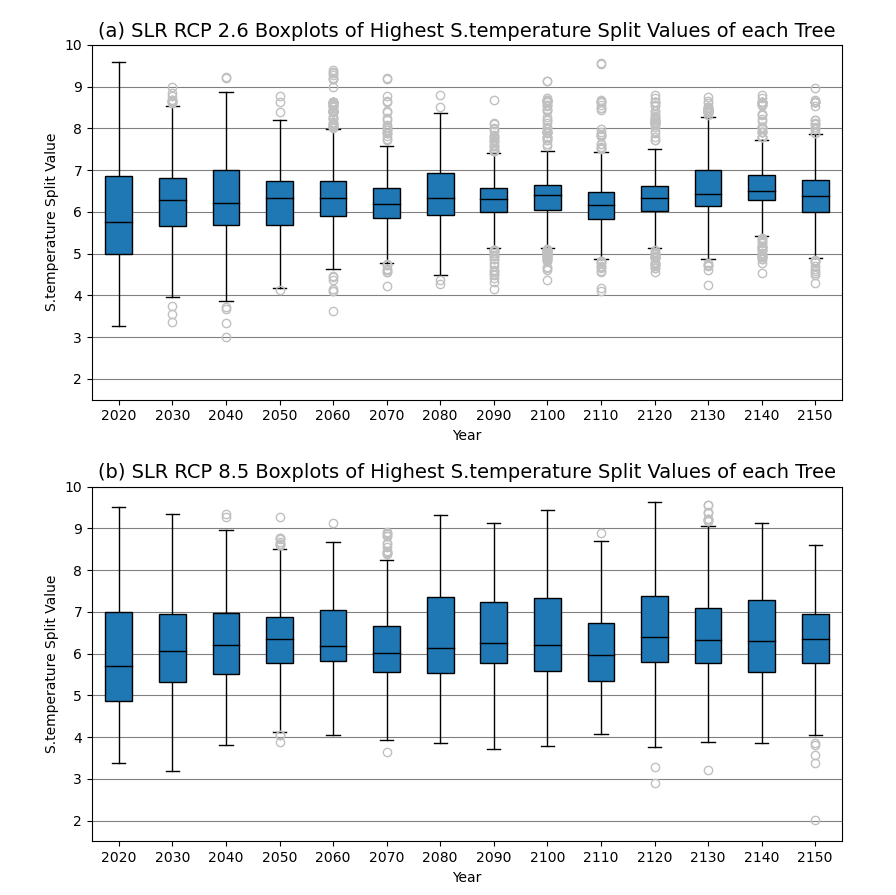
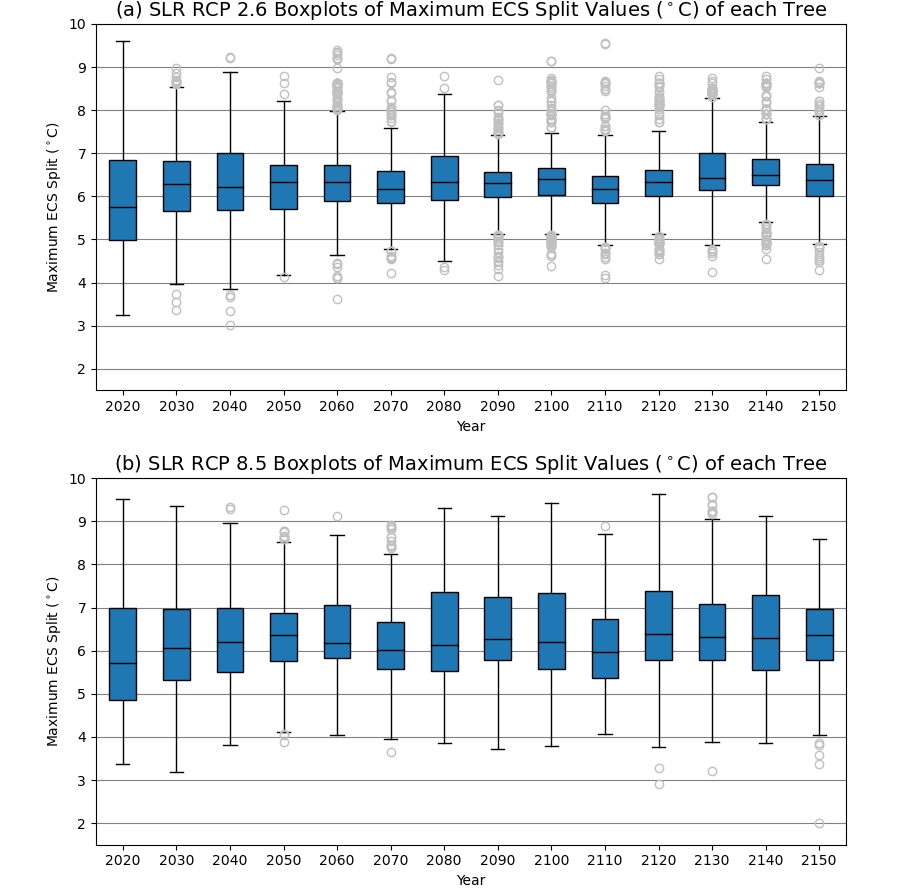
updated plots

Changed region(s): [[0.0312, 0.0, 0.9375, 0.8788], [0.0625, 0.9091, 0.9375, 1.0]]

diff --git a/python_code/sklearn_slr_classification.py b/python_code/sklearn_slr_classification.py
@@ -7,6 +7,7 @@ import pylab
 import joblib
 import os
 from collections import Counter
+import matplotlib.ticker as mticker
 
 
 MAX_DEPTH = 14
@@ -458,7 +459,7 @@ def feature_color_dict(features_list):
 
 
 def slr_stacked_importances_plot(param_sample_df, rcp26_forest_list, rcp85_forest_list, years,
-                                 importance_threshold = .05):
+                                 importance_threshold=.05):
     """
     Create a stacked histogram of the feature importances over time for each RCP
     :param param_sample_df: dataframe of the input feature values
@@ -518,7 +519,9 @@ def slr_stacked_importances_plot(param_sample_df, rcp26_forest_list, rcp85_fores
     features_on_plot = []
     for importances_info in importances_info_list:
         for feature in importances_info:
-            if feature not in features_on_plot:
+            if feature == "Other":
+                pass
+            elif feature not in features_on_plot:
                 features_on_plot.append(feature)
     color_dict = feature_color_dict(features_on_plot)
 
@@ -532,10 +535,10 @@ def slr_stacked_importances_plot(param_sample_df, rcp26_forest_list, rcp85_fores
         x = np.arange(len(years))
         bottom = None
         for feature in importances_info:
-            color = color_dict[feature]
             if feature == "Other":
                 pass
             else:
+                color = color_dict[feature]
                 if bottom is None:
                     axs[i].bar(x, importances_info[feature], label=feature, color=color)
                     bottom = np.array(importances_info[feature])
@@ -543,8 +546,12 @@ def slr_stacked_importances_plot(param_sample_df, rcp26_forest_list, rcp85_fores
                     axs[i].bar(x, importances_info[feature], bottom=bottom, label=feature, color=color)
                     bottom += np.array(importances_info[feature])
         percent_label = "Other (< " + str(importance_threshold*100) + " %)"
-        axs[i].bar(x, importances_info["Other"], bottom=bottom, label=percent_label)
-        axs[i].set_ylabel("Relative Importances")
+        axs[i].bar(x, importances_info["Other"], bottom=bottom, label=percent_label, color='white',
+                   hatch='//')
+        axs[i].set_ylabel("Relative Importances", fontsize=14)
+        ticks_loc = axs[i].get_yticks().tolist()
+        axs[i].yaxis.set_major_locator(mticker.FixedLocator(ticks_loc))
+        axs[i].set_yticklabels(["{:.1f}".format(x) for x in ticks_loc], fontsize=12)
         yrs_10=[]
         for yr in years:
             if int(yr) % 10 == 0:
@@ -552,20 +559,22 @@ def slr_stacked_importances_plot(param_sample_df, rcp26_forest_list, rcp85_fores
             else:
                 yrs_10.append("")
         axs[i].set_xticks(x)
-        axs[i].set_xticklabels(yrs_10)
-        axs[i].set_xlabel('Year')
+        axs[i].set_xticklabels(yrs_10, fontsize=12)
+        axs[i].set_xlabel('Year', fontsize=14)
         if i == 0:
             title_label = "(a)"
         else:
             title_label = "(b)"
         title = title_label + " SLR " + name[i] + " Feature Importances"
-        axs[i].set_title(title, fontsize=14)
+        axs[i].set_title(title, fontsize=18)
         legend_details = axs[i].get_legend_handles_labels()
         handles += legend_details[0]
         labels += legend_details[1]
-        print(name[i], labels, sep="\t")
     by_label = dict(zip(labels, handles))
+    other = by_label.pop(percent_label)
+    by_label[percent_label] = other
     plt.figlegend(by_label.values(), by_label.keys(), bbox_to_anchor=(.98, .62))
+    plt.subplots_adjust(left=.105, right=.825, top=.96, bottom=.065, hspace=.258)
     plt.show()
 
 
@@ -805,15 +814,16 @@ def all_Stemp_max_split_boxplots(year_list, show_outliers=True):
         axs[i].boxplot(all_split_lists[i], showfliers=show_outliers, patch_artist=True, medianprops=dict(color="black"),
                    flierprops=dict(markeredgecolor='silver'), labels=[str(yr) for yr in year_list])
         if i == 0:
-            title = "(a) SLR RCP 2.6 Boxplots of Highest S.temperature Split Values of each Tree"
+            title = "(a) SLR RCP 2.6 Boxplots of Maximum ECS Split Values ($^\circ$C) of each Tree"
         elif i == 1:
-            title = "(b) SLR RCP 8.5 Boxplots of Highest S.temperature Split Values of each Tree"
-        axs[i].set_ylabel("S.temperature Split Value")
+            title = "(b) SLR RCP 8.5 Boxplots of Maximum ECS Split Values ($^\circ$C) of each Tree"
+        axs[i].set_ylabel("Maximum ECS Split ($^\circ$C)")
         axs[i].set_xlabel("Year")
         axs[i].set_title(title, fontsize=14)
         axs[i].grid(b=True, axis='y', color='gray')
         axs[i].set_ylim(top=10)
         axs[i].set_ylim(bottom=1.5)
+    plt.subplots_adjust(left=.25, right=.75, hspace=.24, top=.97, bottom=.055)
     plt.show()
 
 
@@ -952,10 +962,10 @@ if __name__ == '__main__':
 
     rcp26_forest_list = load_forests(yrs_rcp26, "rcp26")
     rcp85_forest_list = load_forests(yrs_rcp85, "rcp85")
-    #slr_stacked_importances_plot(df, rcp26_forest_list, rcp85_forest_list, yrs_rcp26)
-    #all_Stemp_max_split_boxplots(list_10_yrs)
+    #slr_stacked_importances_plot(df, rcp26_forest_list, rcp85_forest_list, yrs_rcp26, importance_threshold=.02)
+    all_Stemp_max_split_boxplots(list_10_yrs)
     #all_Stemp_max_split_histograms([2025, 2050, 2075, 2100, 2125, 2150])
 
-    forest_rcp85_2020 = rcp85_forest_list_10yrs[0]
-    features = df.columns.tolist()
-    get_previous_splits(forest_rcp85_2020, features, "RCP 8.5", 2020, path)
+    #forest_rcp85_2020 = rcp85_forest_list_10yrs[0]
+    #features = df.columns.tolist()
+    #get_previous_splits(forest_rcp85_2020, features, "RCP 8.5", 2020, path)
